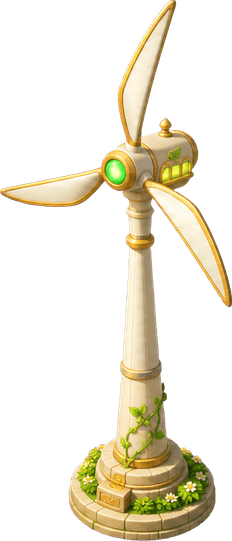
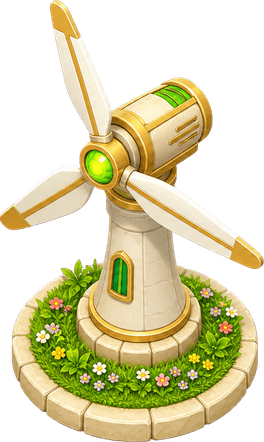
fix(estate): correct generator art angle and self-ground without shadow
- Replace wind-turbine + battery-storage PNGs with regenerated true 2:1 isometric art (trimmed, resized to footprint scale, palette-optimized).
- Align manifest logical sizes to the new art (wind-turbine 132x221, battery 208x187).
- Mark the 4 generators selfGrounded so the renderer skips its grounding patch + shadow ellipse; the art carries its own baked base (matches the main-building pattern).

diff --git a/src/features/estate/data/estate-asset-manifest.ts b/src/features/estate/data/estate-asset-manifest.ts
@@ -50,6 +50,8 @@ export type EstateSpriteAssetDefinition = {
   renderLayer?: number;
   yOffset?: number;
   shadow?: EstateAssetShadowDefinition;
+  /** When true, the renderer skips its grounding patch — the art self-grounds (has a baked base). */
+  selfGrounded?: boolean;
   fallback: EstateProceduralAssetDefinition;
 };
 
@@ -601,7 +603,7 @@ export const estateAssetManifest = {
       149,
       {
         renderLayer: 2,
-        shadow: buildingShadow,
+        selfGrounded: true,
         fallback: {
           kind: "building",
           height: 58,
@@ -617,11 +619,11 @@ export const estateAssetManifest = {
     "wind-turbine": sprite(
       "wind-turbine",
       "/estate-assets/wind-turbine.png",
-      116,
-      270,
+      132,
+      221,
       {
         renderLayer: 2,
-        shadow: smallShadow,
+        selfGrounded: true,
         fallback: {
           kind: "building",
           height: 120,
@@ -637,11 +639,11 @@ export const estateAssetManifest = {
     "battery-storage": sprite(
       "battery-storage",
       "/estate-assets/battery-storage.png",
-      216,
-      151,
+      208,
+      187,
       {
         renderLayer: 2,
-        shadow: buildingShadow,
+        selfGrounded: true,
         fallback: {
           kind: "building",
           height: 52,
@@ -661,7 +663,7 @@ export const estateAssetManifest = {
       217,
       {
         renderLayer: 2,
-        shadow: buildingShadow,
+        selfGrounded: true,
         fallback: {
           kind: "building",
           height: 70,

diff --git a/src/features/estate/isometric/renderer.ts b/src/features/estate/isometric/renderer.ts
@@ -676,7 +676,8 @@ export class EstateIsometricRenderer {
 
     if (
       asset.fallback.kind === "building" &&
-      shouldDrawSpriteGrounding(item)
+      shouldDrawSpriteGrounding(item) &&
+      !asset.selfGrounded
     ) {
       this.drawSpriteGrounding(item, metrics, camera, viewport, alpha);
     }